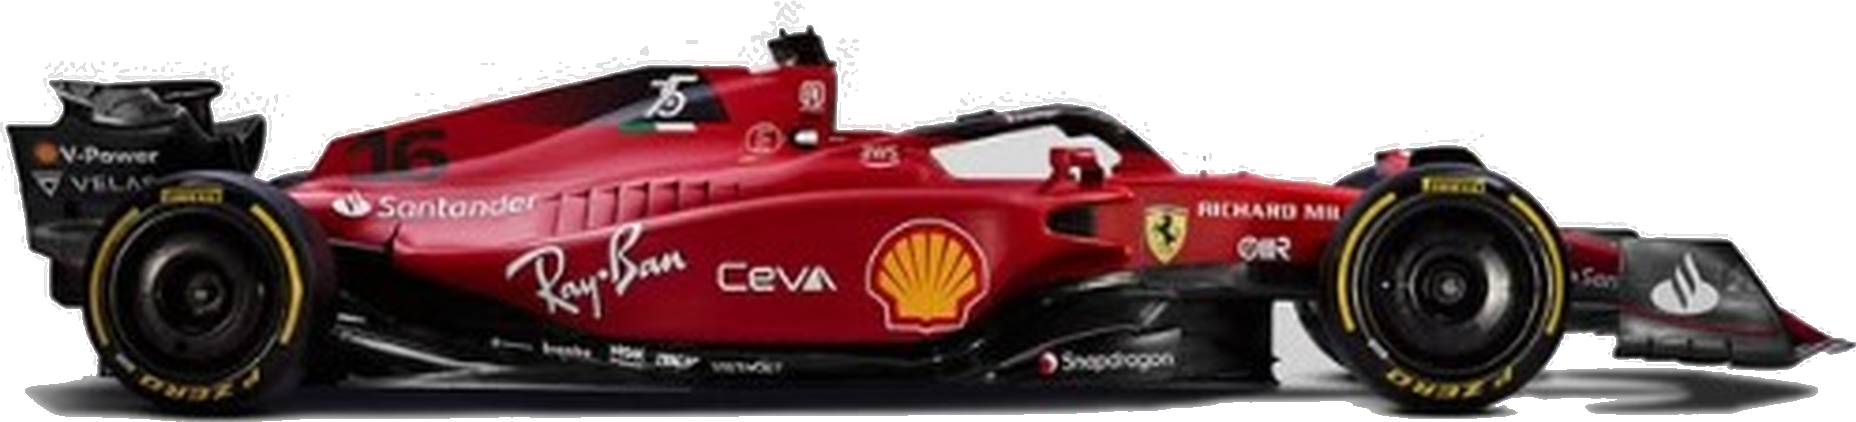
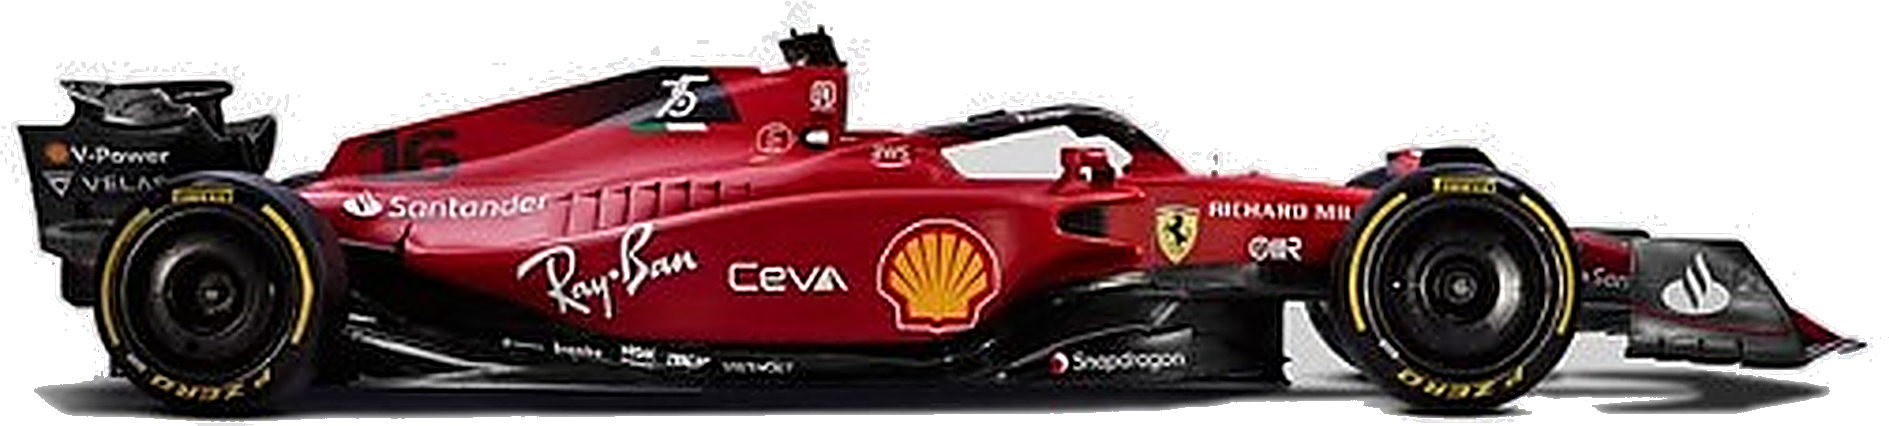
chore: enhance background transparent car watermark resolution details with UnsharpMask edge sharpening

Changed region(s): [[0.0, 0.0, 1.0, 1.0]]

diff --git a/scratch/enhance_bg_car.py b/scratch/enhance_bg_car.py
@@ -1,0 +1,64 @@
+from PIL import Image, ImageDraw, ImageFilter
+import os
+
+def enhance_and_extract_car(bg_path, output_path):
+    print(f"Loading background image from {bg_path}...")
+    if not os.path.exists(bg_path):
+        print(f"File not found: {bg_path}")
+        return
+        
+    img = Image.open(bg_path)
+    w, h = img.size
+    print(f"Original size: {w}x{h}")
+    
+    # Target size: let's scale it up to a high resolution (height = 3840px)
+    target_height = 3840
+    target_width = int((w / h) * target_height)
+    print(f"Scaling to: {target_width}x{target_height}")
+    
+    # Upscale using Lanczos
+    img_upscaled = img.resize((target_width, target_height), resample=Image.Resampling.LANCZOS).convert("RGBA")
+    
+    # Apply UnsharpMask to aggressively sharpen edges and enhance local resolution details
+    # radius=2 to target edge transitions, percent=200 to boost edge contrast, threshold=1 to preserve flat areas
+    print("Applying edge sharpening filter (UnsharpMask)...")
+    img_sharpened = img_upscaled.filter(ImageFilter.UnsharpMask(radius=2, percent=200, threshold=1))
+    
+    # Crop the F1 car region (same coords as extract_side_view.py)
+    car_y1 = int(0.55 * target_height)
+    car_y2 = int(0.80 * target_height)
+    car_x1 = int(0.05 * target_width)
+    car_x2 = int(0.95 * target_width)
+    
+    car_img = img_sharpened.crop((car_x1, car_y1, car_x2, car_y2))
+    car_w, car_h = car_img.size
+    print(f"Cropped car size: {car_w}x{car_h}")
+    
+    # Flood-fill borders to transparent
+    print("Performing border extraction flood-fill...")
+    for x in range(car_w):
+        for y in [0, car_h - 1]:
+            r, g, b, a = car_img.getpixel((x, y))
+            if a > 0 and (r > 180 and g > 180 and b > 180):
+                ImageDraw.floodfill(car_img, (x, y), (0, 0, 0, 0), thresh=65)
+    for y in range(car_h):
+        for x in [0, car_w - 1]:
+            r, g, b, a = car_img.getpixel((x, y))
+            if a > 0 and (r > 180 and g > 180 and b > 180):
+                ImageDraw.floodfill(car_img, (x, y), (0, 0, 0, 0), thresh=65)
+                
+    # Crop tightly to the non-transparent bounding box
+    bbox = car_img.getbbox()
+    if bbox:
+        car_img = car_img.crop(bbox)
+        
+    # Save the resulting transparent PNG
+    car_img.save(output_path, "PNG")
+    print(f"Successfully saved enhanced transparent car watermark to {output_path} with size {car_img.size}")
+
+assets_dir = r"c:\Users\Pancr\Desktop\F1\src\assets"
+enhance_and_extract_car(
+    r"C:\Users\Pancr\.gemini\antigravity\brain\edabb397-a55b-44d6-a99f-9b57199afc20\media__1784422111075.jpg",
+    os.path.join(assets_dir, "website_bg_transparent.png")
+)
+print("Done.")
